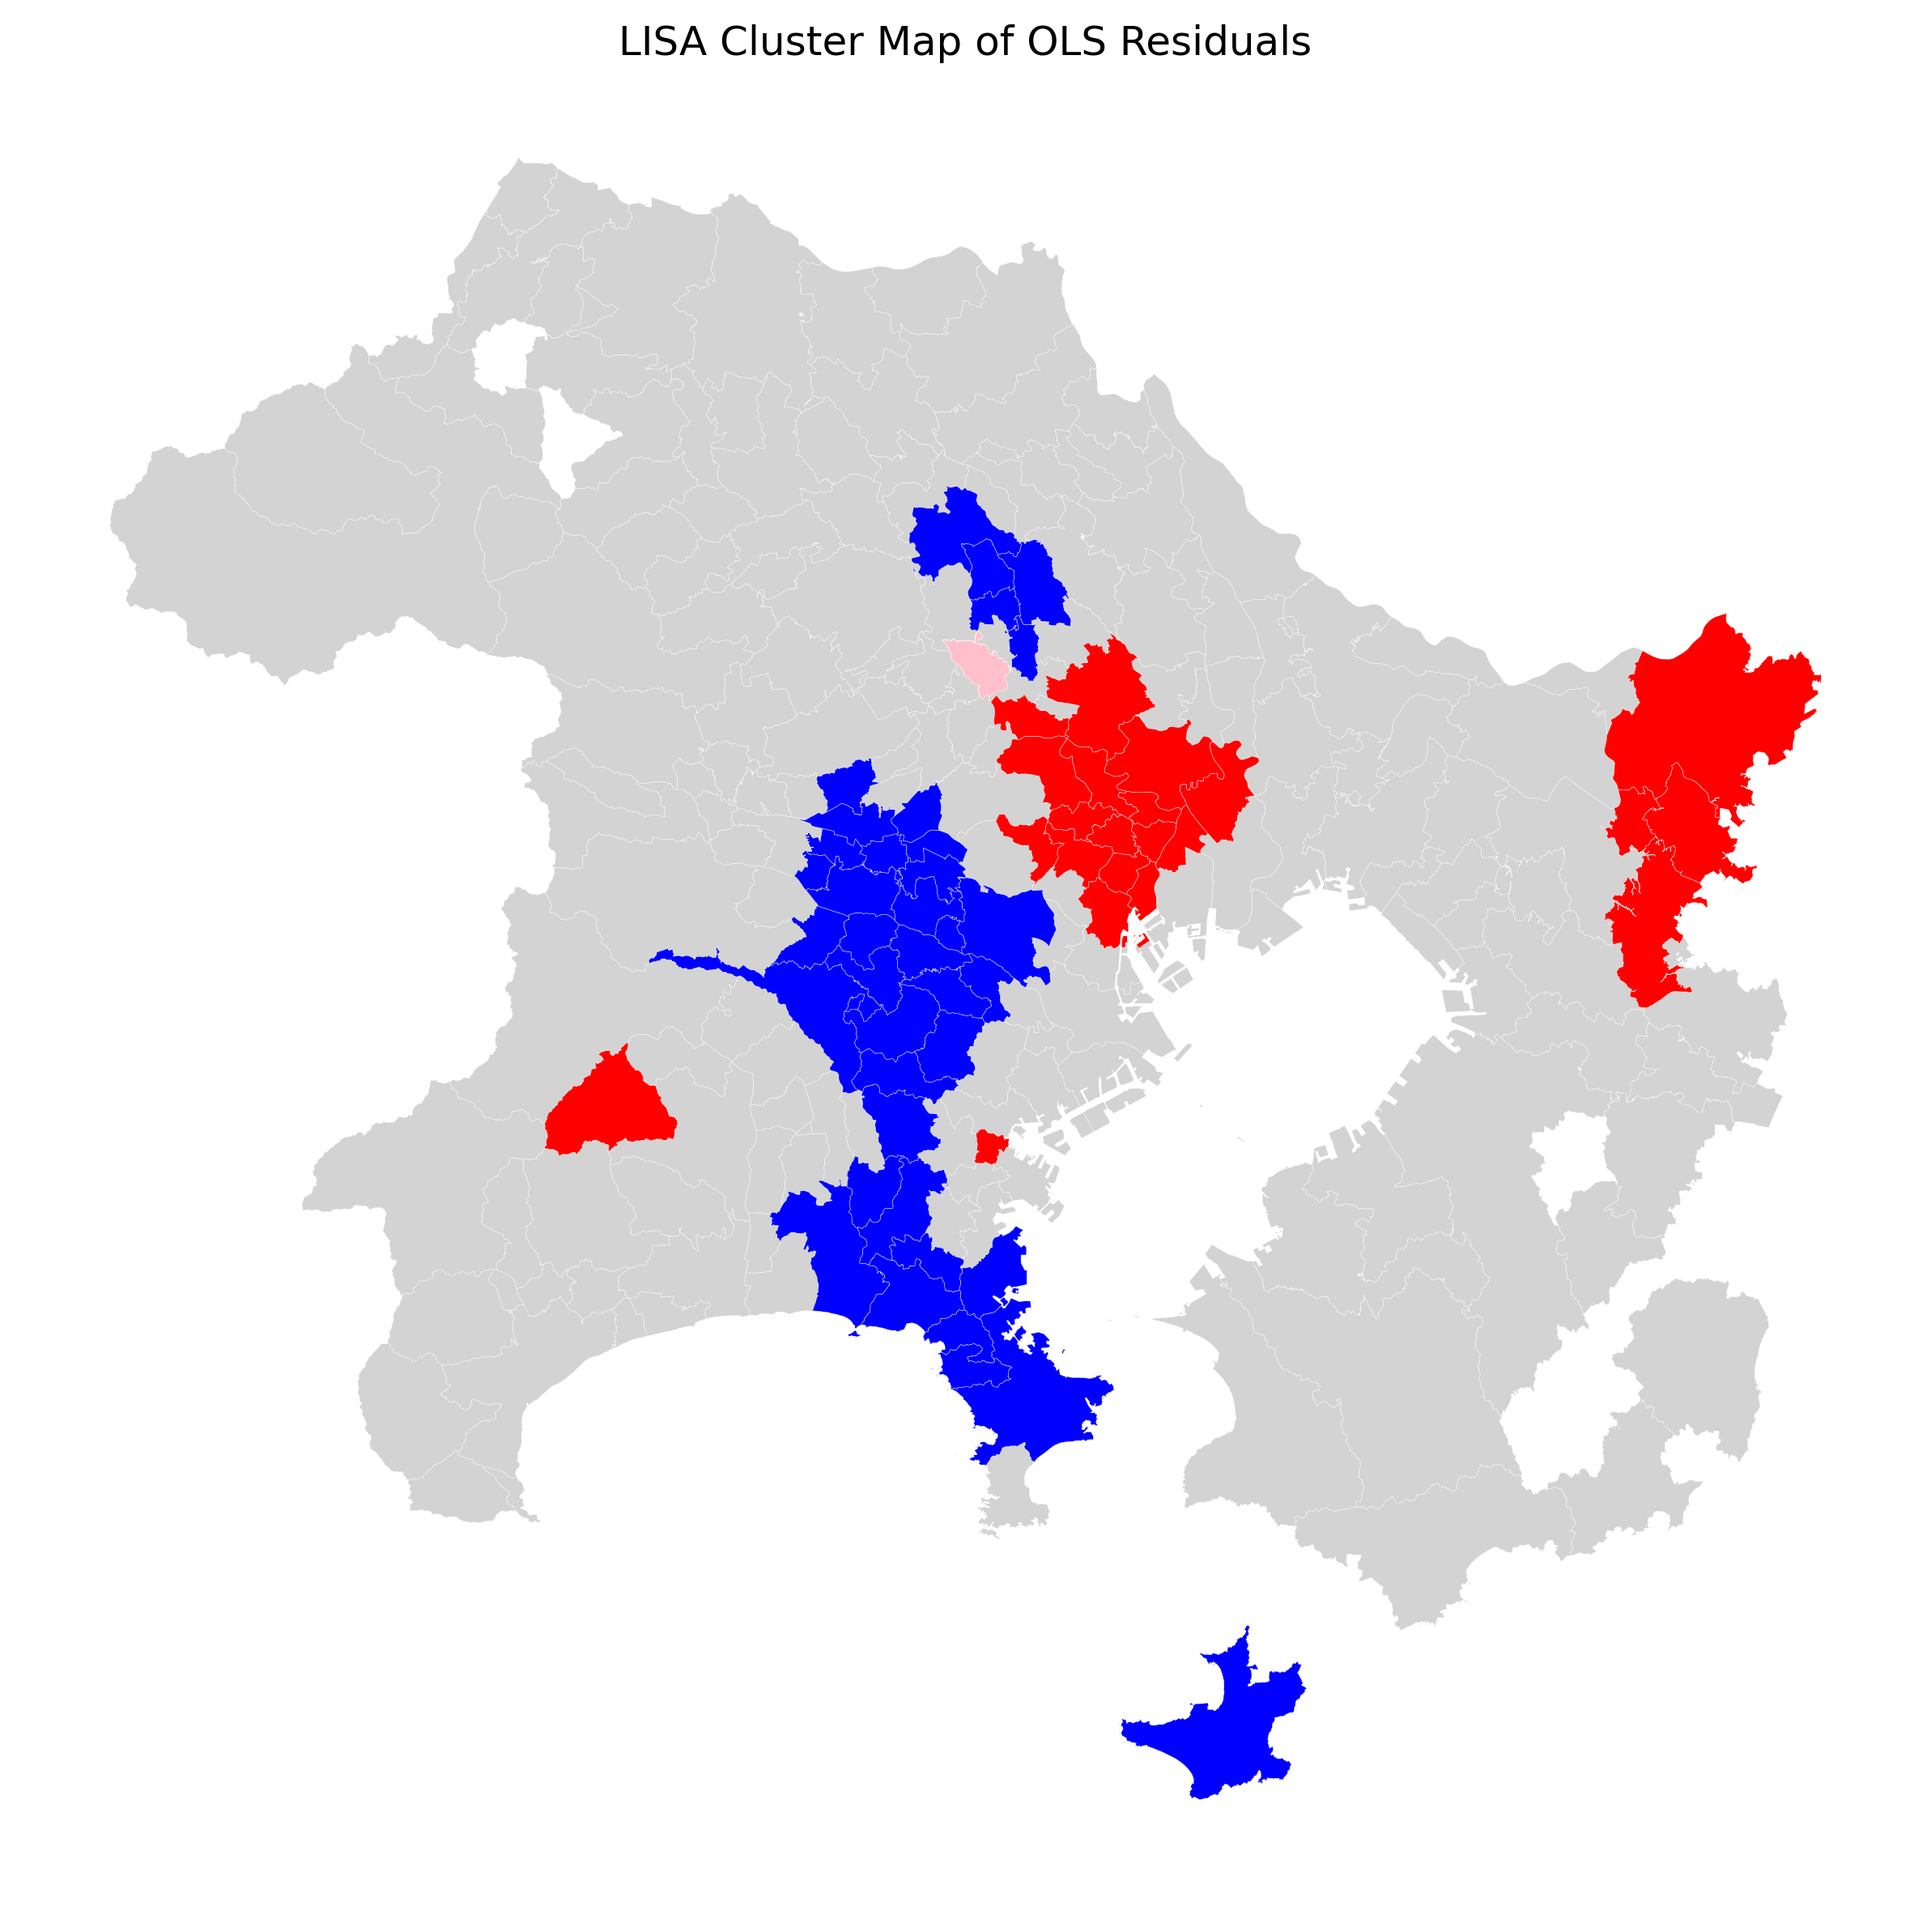
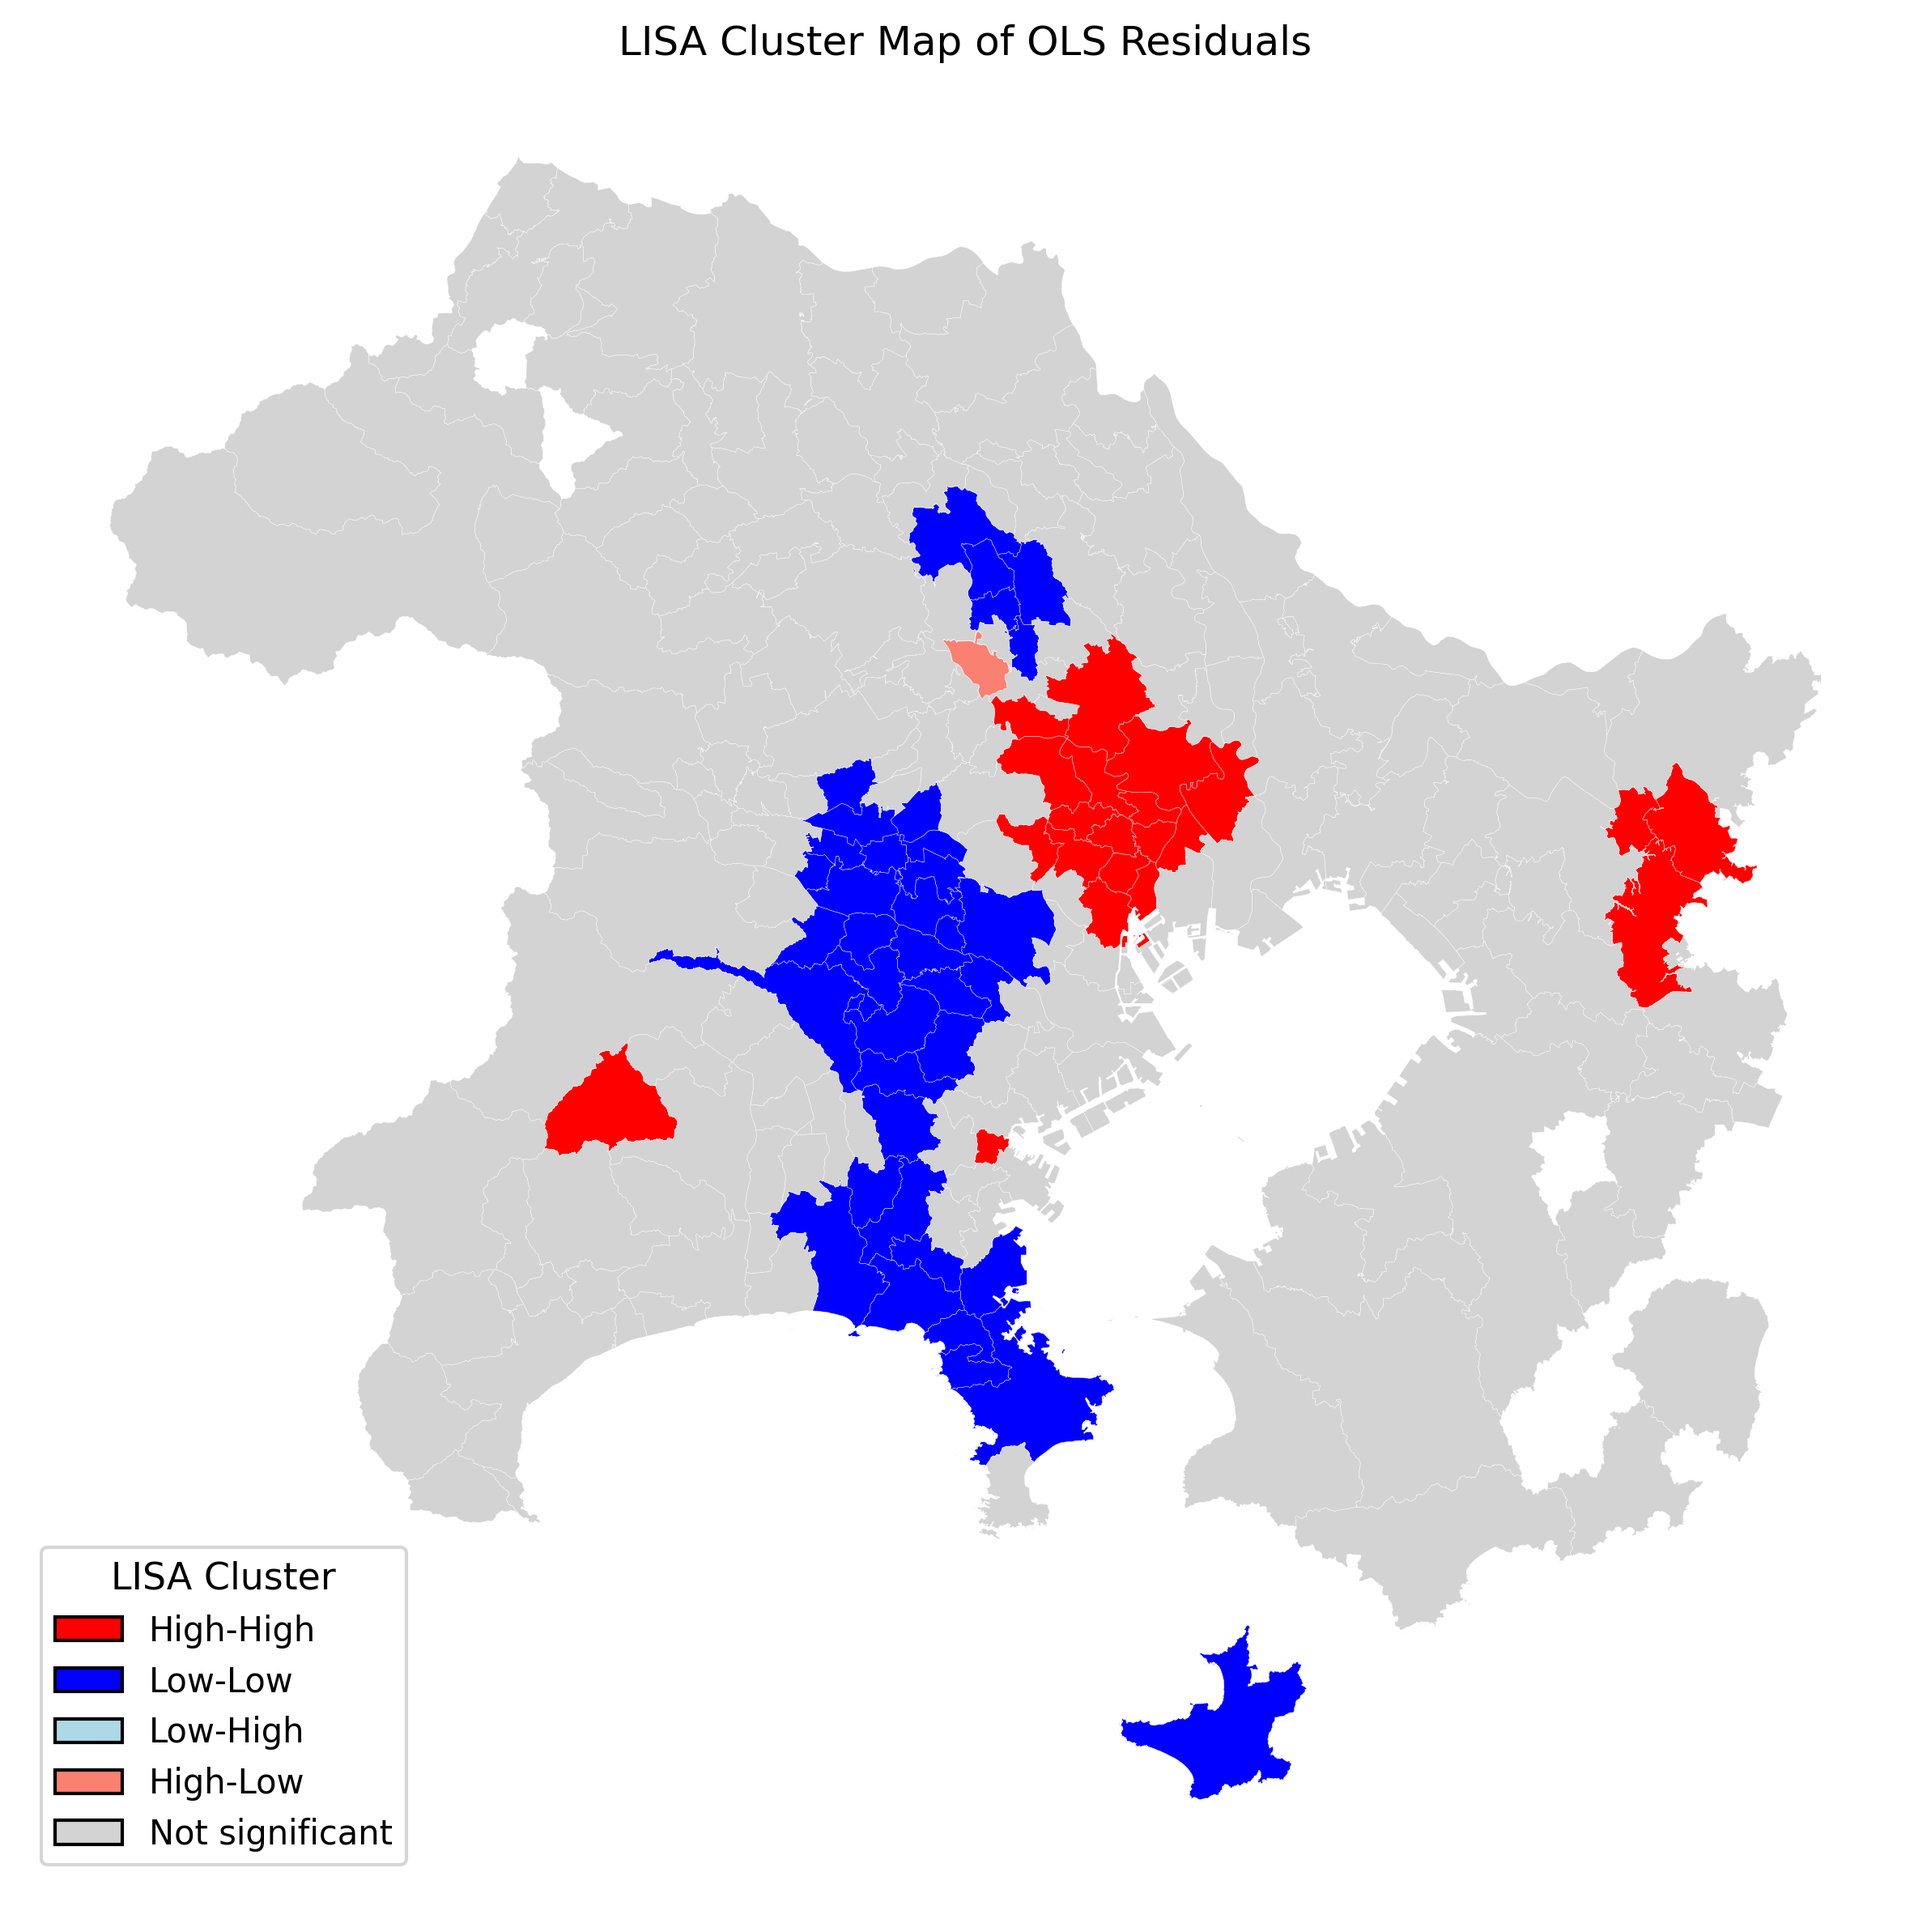
Add LISA cluster map with legend to research portfolio

Changed region(s): [[0.0, 0.8063, 0.2172, 0.9924], [0.8067, 0.3101, 0.9618, 0.4342], [0.4964, 0.3411, 0.5275, 0.3721]]

diff --git a/README.md b/README.md
@@ -58,14 +58,6 @@ The current results show that:
 
 These findings suggest that foreign population concentration in metropolitan Japan cannot be understood through a single global mechanism. Instead, it is shaped by spatially differentiated combinations of accessibility, land value, and local urban context.
 
-## Selected Figures
-
-### LISA Cluster Map
-![LISA Cluster Map](outputs/figures/lisa_cluster_map.png)
-
-### MGWR Local Coefficients: Log Distance to Station
-![MGWR Log Distance](outputs/figures/mgwr_logdist_map.png)
-
 ## Repository Structure
 
 ```text
@@ -94,3 +86,17 @@ These findings suggest that foreign population concentration in metropolitan Jap
    ├─ future_research_plan_en.pdf
    ├─ cv_en.pdf
    └─ project_brief_en.pdf
+```
+
+## Selected Figures
+### LISA Cluster Map of OLS Residuals
+![LISA Cluster Map of OLS Residuals](outputs/figures/lisa_cluster_map.png)
+### MGWR Local Coefficients: Log Distance to Station
+![MGWR Local Coefficients: Log Distance to Station](outputs/figures/mgwr_logdist_map.png)
+
+
+## Supporting Documents
+English academic CV
+Research summary
+Future research plan
+Project brief
